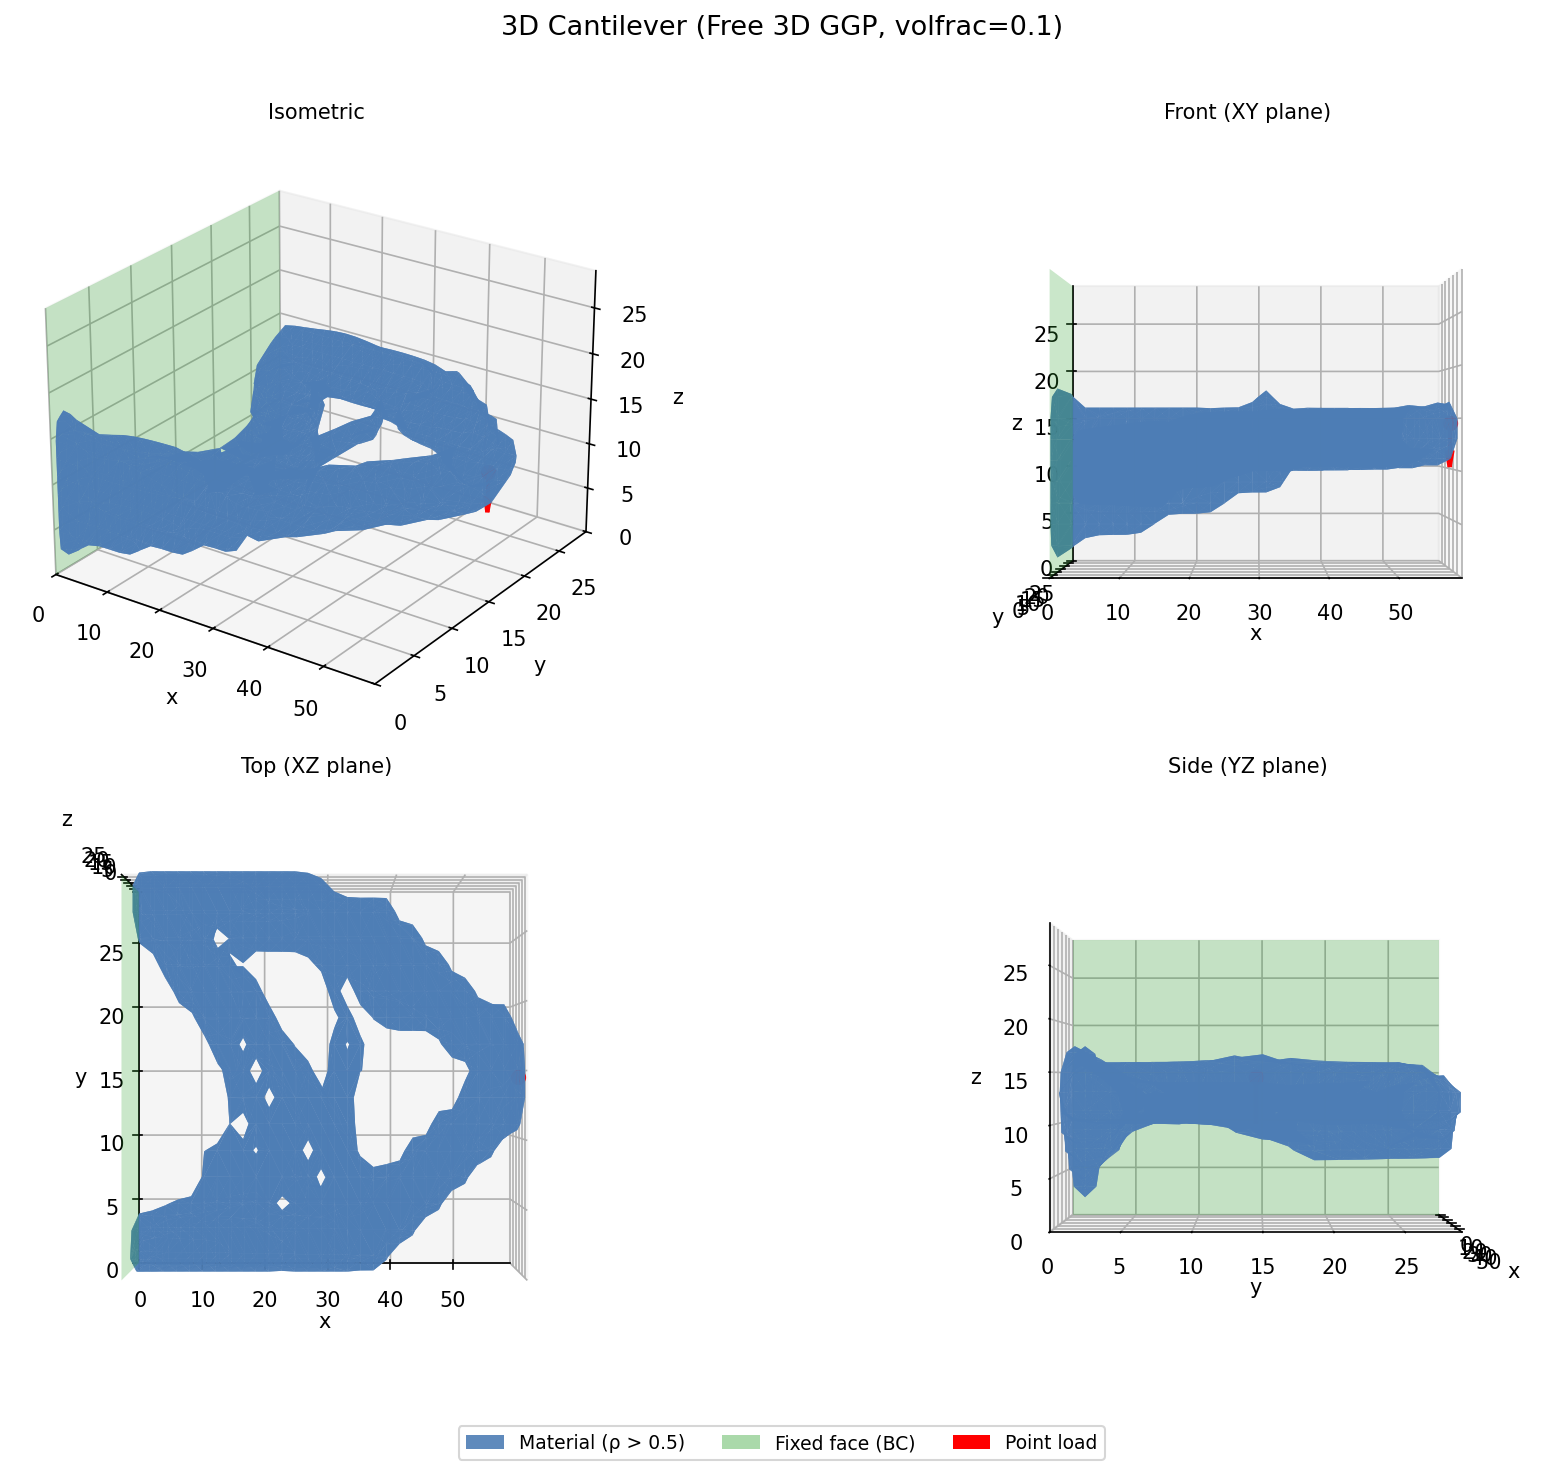
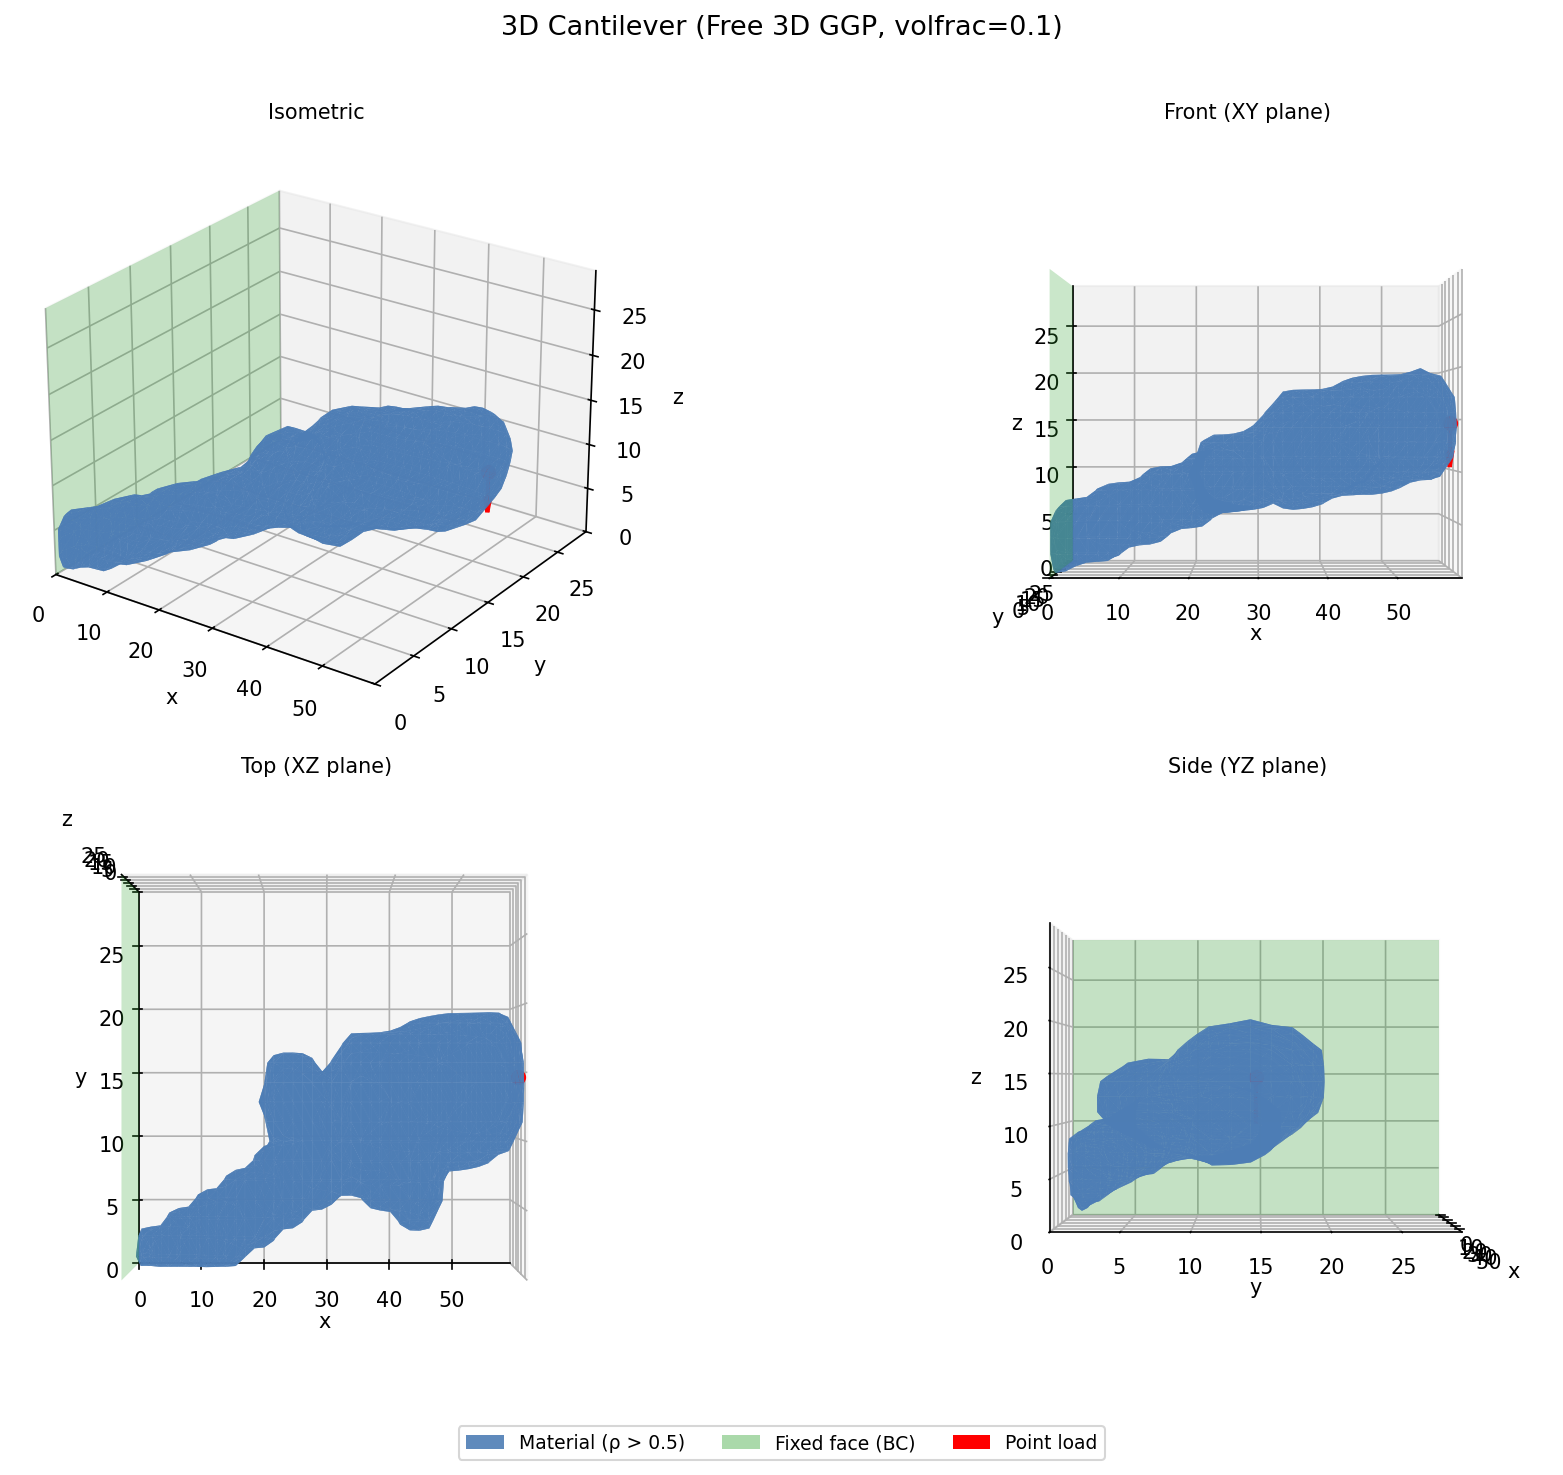
Regenerate 3D cantilever doc image at finer 40x20x20 mesh
Re-run the Free-3D-GGP cantilever on a refined 40x20x20 mesh (was 30x15x15)
using the iterative PCG+GAMG solver, since the direct sparse solve is ~6x too
slow at this size (~148 s/iter vs ~24 s/iter). 150 MMA iterations.

Claude-Session: https://claude.ai/code/session_019xV1X4q9qJwcoLzf9Jkhq3

diff --git a/docs/ex05_3d_cantilever.rst b/docs/ex05_3d_cantilever.rst
@@ -49,7 +49,7 @@ Problem details
 +=====================+==================+
 | Domain              | 60 × 30 × 30     |
 +---------------------+------------------+
-| Mesh                | 30×15×15 tets    |
+| Mesh                | 40×20×20 tets    |
 +---------------------+------------------+
 | Formulation         | Free 3D          |
 +---------------------+------------------+
